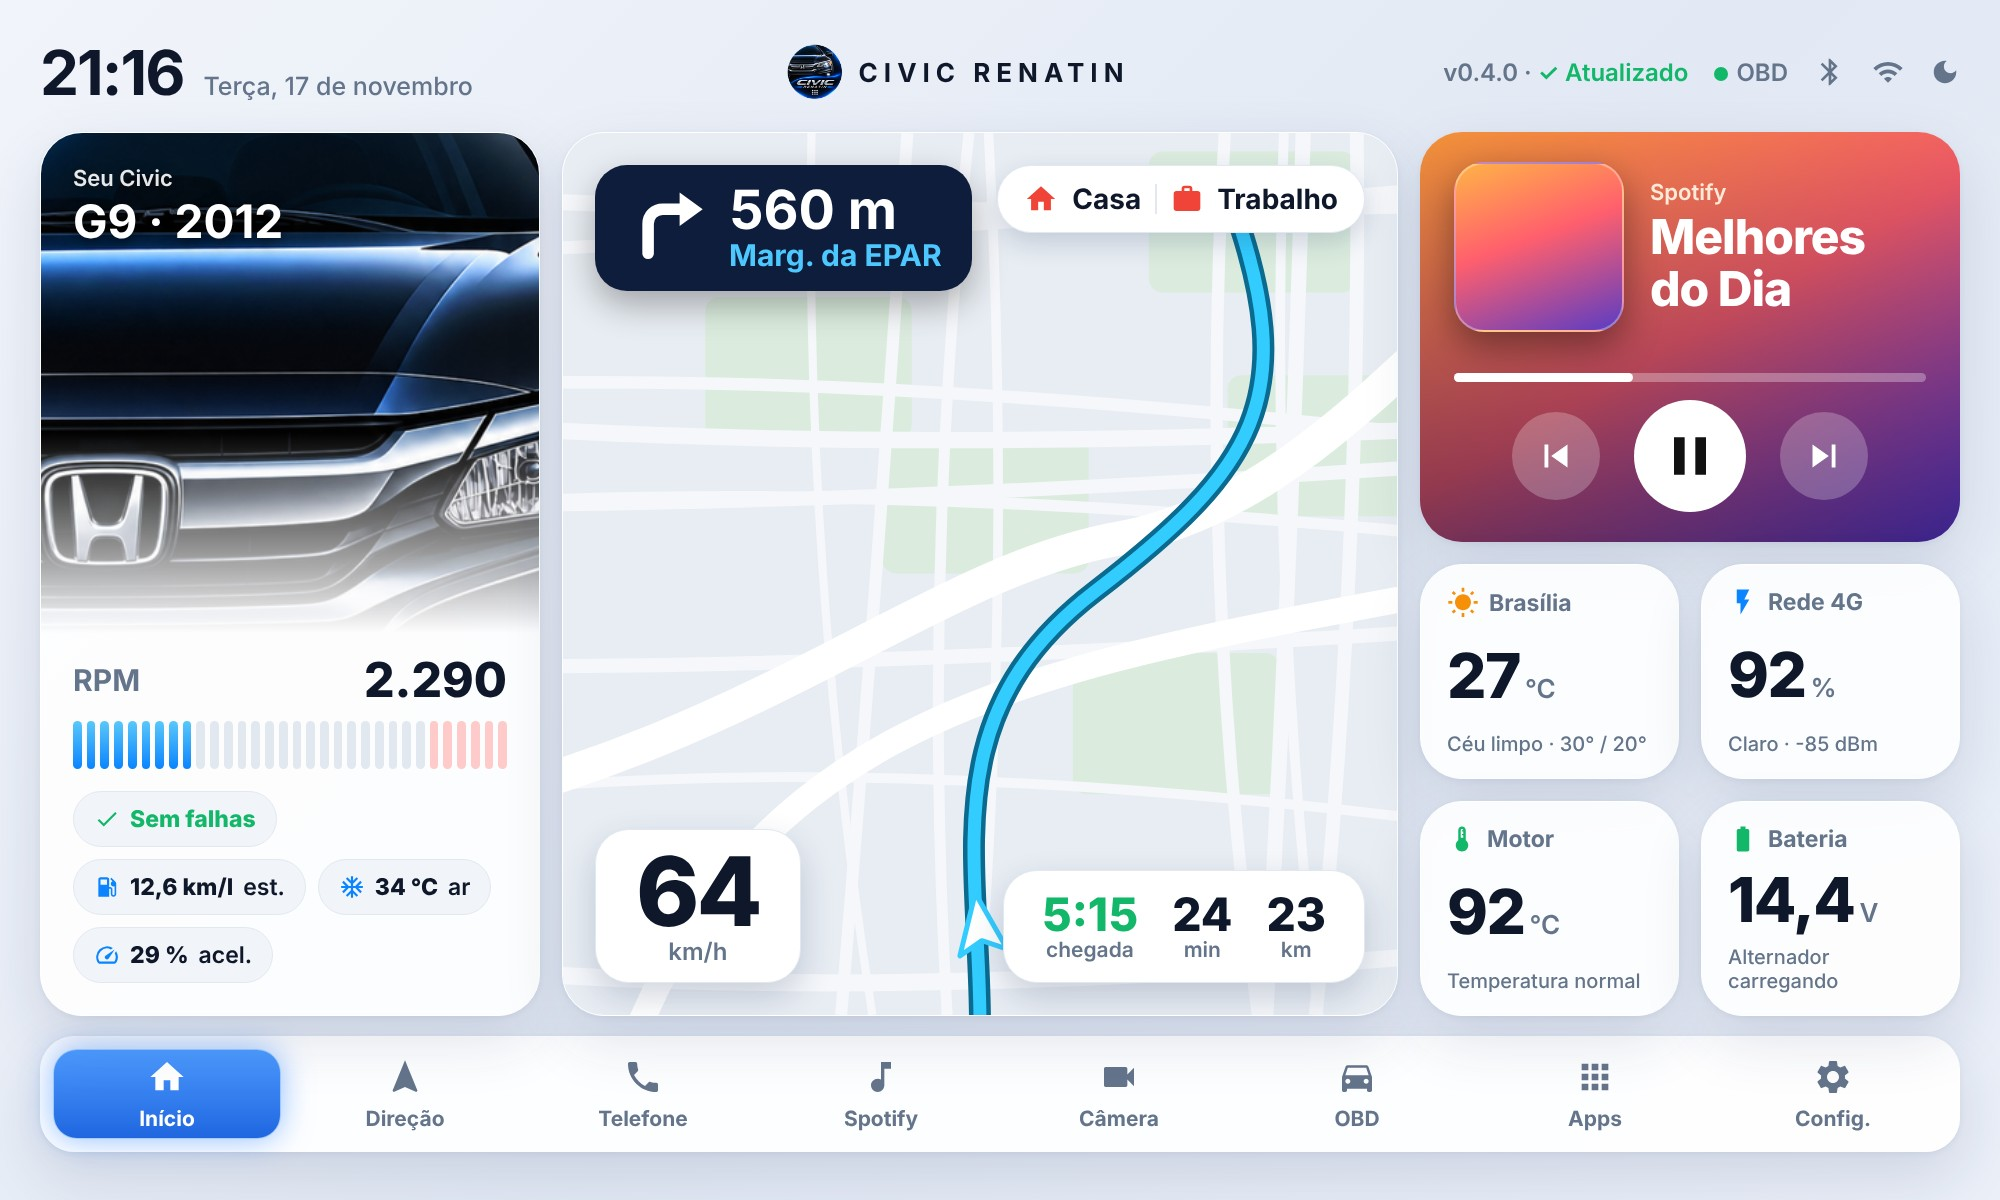
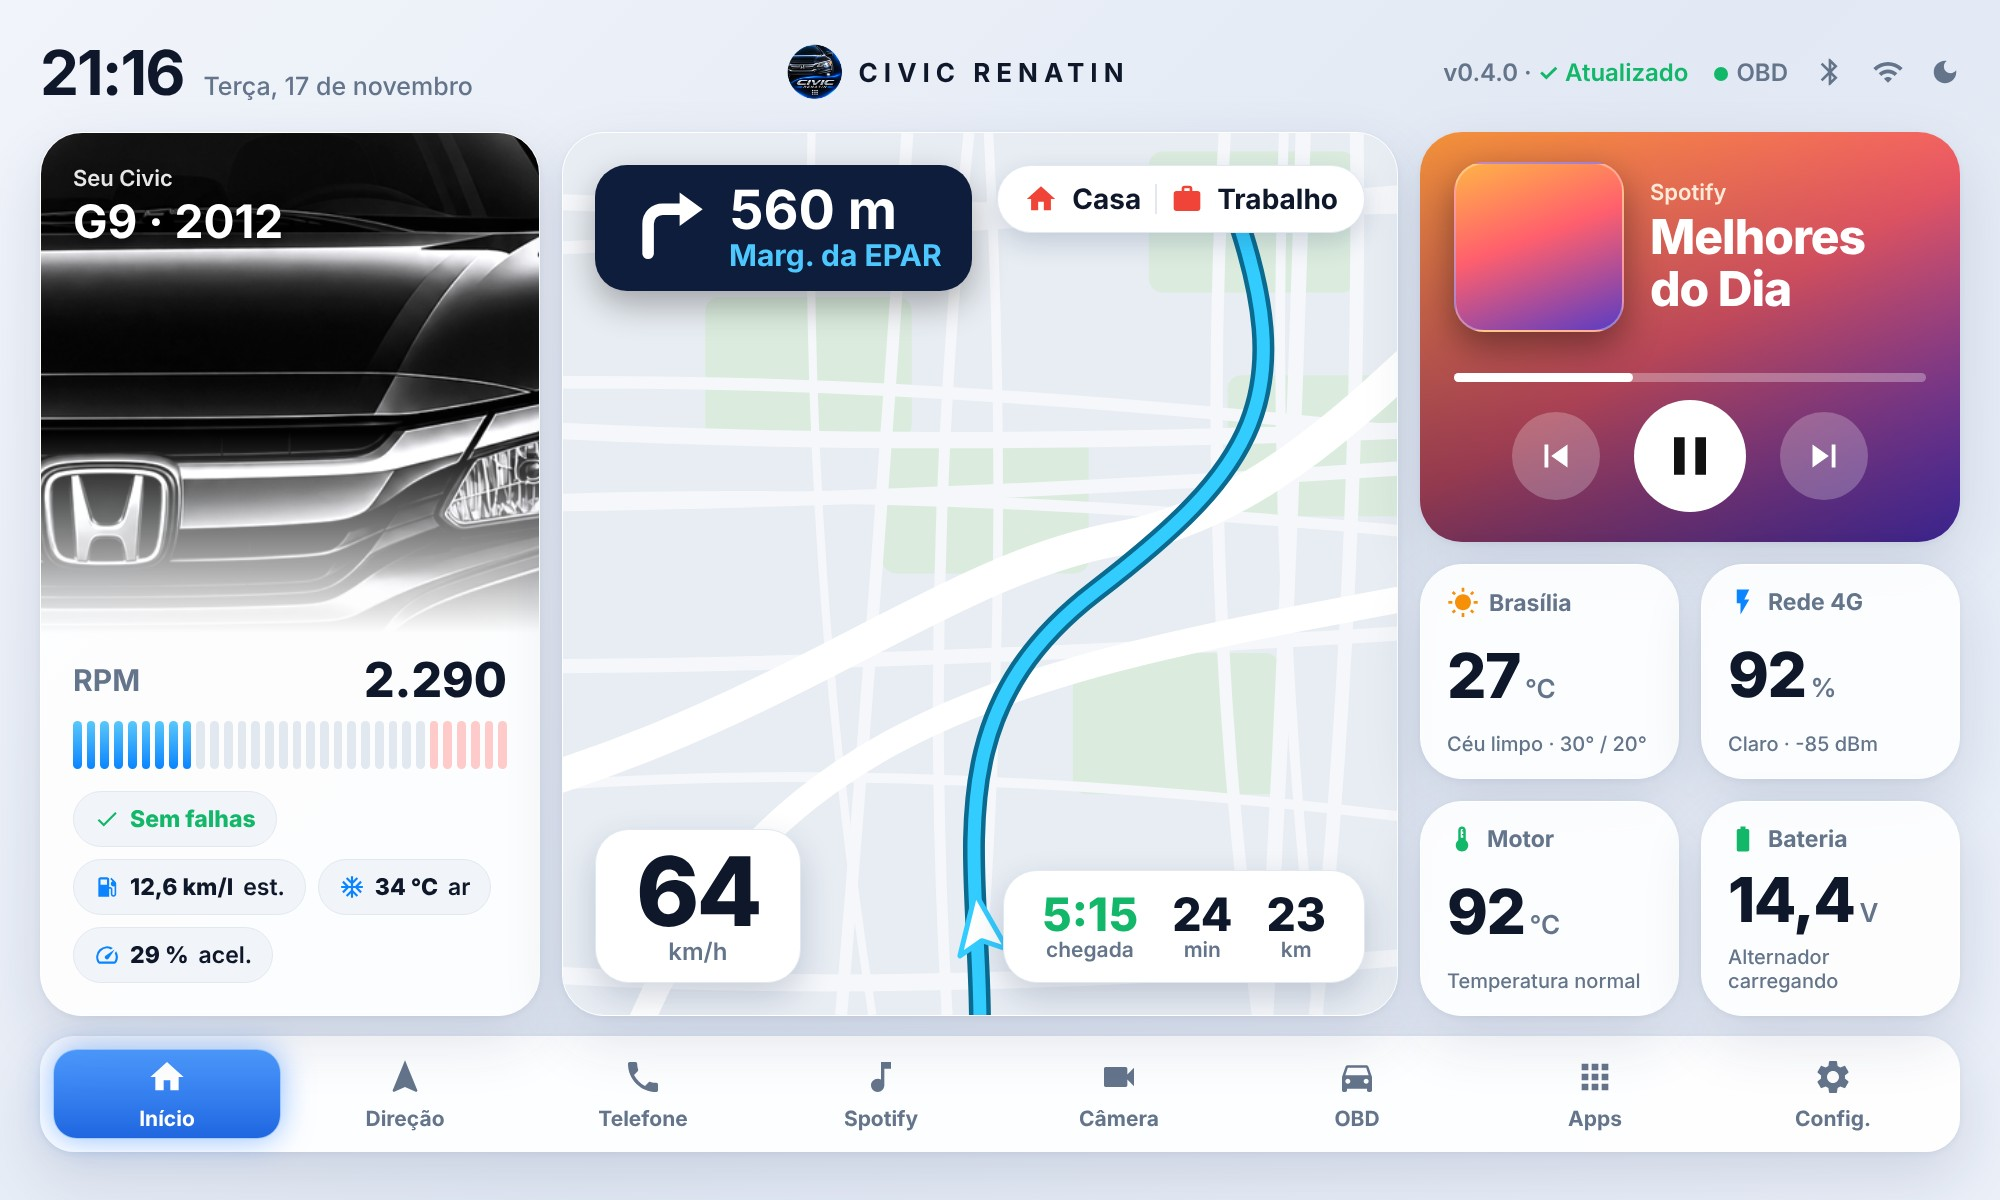
Direção F: carro em cinza e cartão do carro à direita na Central do Civic
Claude-Session: https://claude.ai/code/session_01A6ALFrdPJwBDhwqiRUdrjZ

Changed region(s): [[0.0, 0.1542, 0.279, 0.4008], [0.0, 0.0925, 0.062, 0.1542]]

diff --git a/docs/designs/README.md b/docs/designs/README.md
@@ -13,4 +13,6 @@ Seis direções de interface para a Tela Início e a Central do Civic (OBD), des
 | **E — Estilo BYD** | Carro grande em destaque, cartões de vidro de cantos bem arredondados e dock de apps coloridos (inspirado nas multimídias BYD DiLink); já mostra a versão em **retrato**, para a tela que vira | Usa translucidez, mas dá para simular com degradês |
 | **F — Escolhida** | Clean da B + disposição e estilo da E + menu da A: carro menor, Waze maior, Spotify com 4 caixas (clima, rede, motor, bateria), em tema claro e escuro | Base da implementação no app |
 
+Atualização da F: a Central do Civic tem o cartão do carro à direita (igual ao da Tela Início) e a imagem do carro passou de azul para **cinza grafite** (`carro-cinza.png`).
+
 Dados mostrados são fictícios. Consumo é uma estimativa; pressão de óleo e marcha (P/D) não existem no OBD padrão do Civic G9.
